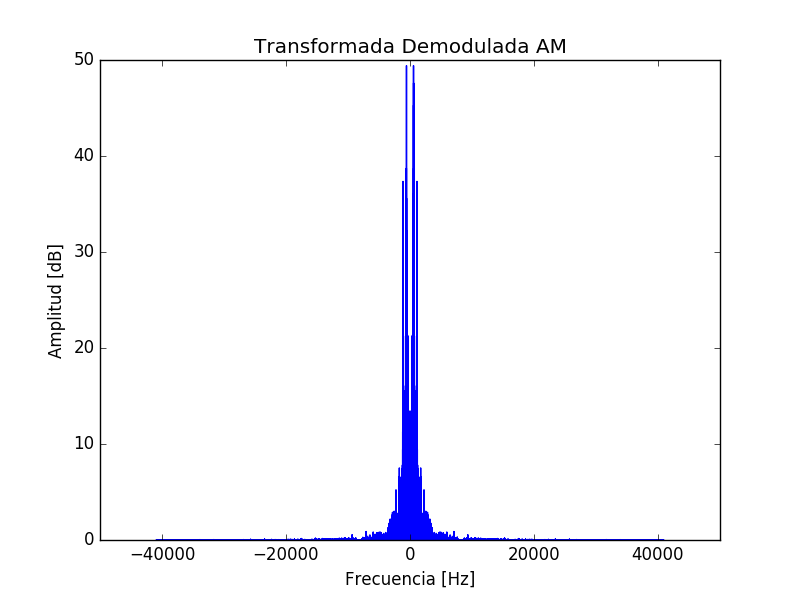
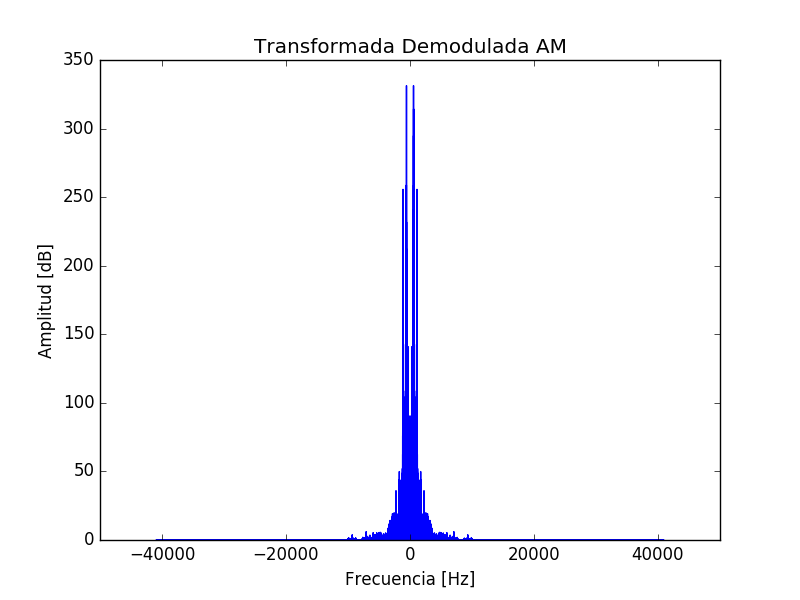
demodulacion ejecutandose bien

diff --git a/lab3.py b/lab3.py
@@ -95,25 +95,7 @@ def graphTransformation(xfourier,yfourier,text,figura):
 	plt.plot(xfourier,abs(yfourier))
 	savefig(figura)
 	plt.show()
-
    
-
-
-def graphModulationFM(t2,señal_interpolada,portadoraX,señal_portadora,señal_modulada,K):
-	plt.subplot(311)
-	plt.title("Señal del Audio")
-	plt.plot(t2[:200],señal_interpolada[:200],linewidth=0.4)
-	plt.subplot(312)
-	plt.title("Señal Portadora")
-	plt.plot(portadoraX[:200],señal_portadora[:200],linewidth=0.4)
-	plt.subplot(313)
-	plt.title("Modulación FM "+str(K)+" %")
-	plt.plot(t2[:200],señal_modulada[:200],linewidth=0.4)
-	plt.show()
-
-    
-    
-    
 #==============================================================================
 # Qué hace la función?: Realiza la modulación de una señal en frecuencia
 # Parámetros de entrada: señal, largo señal, vector del eje x de la señal, frecuencia moduladora
@@ -138,6 +120,25 @@ def modulationFM(y_signal,x_signal,len_signal,time_signal,rate_signal,K):
 	w= fm * x_signal_2
 	y_modulada= A*(np.cos(w*pi+KK*integral*pi))
 	return x_signal_2,y_signal_2,x_portadora,y_portadora,y_modulada, rate_signal_2
+
+#===============================================================================
+# Función: Grafica la modulación FM de la señal, mostrando la señal moduladora,
+# la portadora y la señal modulada.
+# Parámetros de entrada: ejes x e y de cada señal obtenida por la modulación FM.
+# Parámetros de salida: Ninguno, se muestra un gráfico por pantalla.
+#===============================================================================
+def graphModulationFM(x_signal_2,y_signal_2,x_portadora,y_portadora,y_modulada, rate_signal_2,K):
+	plt.subplot(311)
+	plt.title("Señal del Audio")
+	plt.plot(t2[:200],señal_interpolada[:200],linewidth=0.4)
+	plt.subplot(312)
+	plt.title("Señal Portadora")
+	plt.plot(portadoraX[:200],señal_portadora[:200],linewidth=0.4)
+	plt.subplot(313)
+	plt.title("Modulación FM "+str(K)+" %")
+	plt.plot(t2[:200],señal_modulada[:200],linewidth=0.4)
+	plt.show()
+
 #==============================================================================
 # Qué hace la función?: Realiza la modulación de una señal en amplitud
 # Parámetros de entrada: señal, largo señal, vector del eje x de la señal, frecuencia moduladora
@@ -146,29 +147,44 @@ def modulationFM(y_signal,x_signal,len_signal,time_signal,rate_signal,K):
 def modulacionAM(y_signal,x_signal,len_signal,time_signal,K):
 	KK = K/100
 	fc=30000 # Frecuencia en la que se modulará la señal
-	rate_signal_2 = len_signal*10/time_signal
+	rate_signal_2 = len_signal*10/time_signal #Nuevo "tiempo" para el resampling de la señal.
 	x_signal_2 = linspace(0,time_signal,len_signal*10)
 	y_signal_2 = np.interp(x_signal_2, x_signal,y_signal)  
 	
-
+	#Obtención de Wc para luego multiplicarlo por el arreglo tiempo de la portadora.
 	wc=2*np.pi*fc
-	x_portadora =x_signal_2
+	x_portadora = x_signal_2
+	#Función portadora.
 	y_portadora = KK*np.cos(wc * x_portadora)
+	#Obtención de la señal modulada.
 	y_modulada =y_signal_2*y_portadora
 
 	return x_signal_2,y_signal_2,x_portadora,y_portadora,y_modulada, rate_signal_2
 
-def graphModulationAM(x2,señal2,portadoraX,señal_portadora,señal_modulada,K):
+
+#===============================================================================
+# Función: Grafica la modulación AM de la señal, mostrando la señal moduladora,
+# la portadora y la señal modulada.
+# Parámetros de entrada: ejes x e y de cada señal obtenida por la modulación AM.
+# Parámetros de salida: Ninguno, se muestra un gráfico por pantalla.
+#===============================================================================
+def graphModulationAM(x_signal_2,y_signal_2,x_portadora,y_portadora,y_modulada, rate_signal_2,K,figura):
 	plt.subplot(311)
-	plt.title("Señal del Audio",fontsize = 10)
-	plt.plot(x2[:600],señal2[:600],linewidth=0.4)
+	plt.title("Señal del Audio")
+	plt.plot(x_signal_2[:600],y_signal_2[:600],linewidth=0.4)
 	plt.subplot(312)
-	plt.title("Señal Portadora",fontsize = 10)
-	plt.plot(portadoraX[:600],señal_portadora[:600],linewidth=0.4)
+	plt.title("Señal Portadora")
+	plt.plot(x_portadora[:600],y_portadora[:600],linewidth=0.4)
 	plt.subplot(313)
-	plt.title("Modulación AM "+str(K)+" %",fontsize = 10)
-	plt.plot(x2[:600],señal_modulada[:600],linewidth=0.4)
+	plt.title("Modulación AM "+str(K)+" %")
+	plt.plot(x_signal_2[:600],y_modulada[:600],linewidth=0.4)
+	savefig(figura)
 	plt.show()
+
+
+
+
+
 
 def appLowFilter(senal, rate):
     nyquist = rate/2
@@ -183,17 +199,18 @@ def appLowFilter(senal, rate):
     x = arange(0,time,1.0/float(rate))
     return x,filtered
 
-def demoduladorAM(x_modulada,y_modulada,largo_señal_modulada,rate_signal_2):
-    #y_demodulada=y_modulada/y_portadora
-    #x_demodulada = arange(0,len(y_modulada)/rate_signal_2,1.0/rate_signal_2)
-    #x_demodulada, y_demodulada = appLowFilter(y_demodulada,rate_signal_2)
-    #return x_demodulada, y_demodulada
-    fc=30000 #se requiere una frecuencia portadora minimo 4 veces mayor que la frecuencia de muestreo
-    wc=2*pi*fc
-    x_demodulada=np.linspace(0,len(x_modulada)/(rate_signal_2), num=len(x_modulada))
-    y_portadora = np.cos(wc*x_demodulada)
-    y_desmodulada=y_modulada/y_portadora 
-    return x_demodulada,y_desmodulada
+
+
+#=====================================================================================
+#Función: Función encargada de la demodulación AM de la señal.
+#Parámetros de entrada: señal modulada, señal portadora, con la nueva tasa de muestreo
+#Parámetros de salida: Eje x e y de la señal demodulada.
+#=====================================================================================
+def demoduladorAM(y_modulada,y_portadora,rate_signal_2):
+    y_demodulada=y_modulada/y_portadora
+    x_demodulada = linspace(0,len(y_modulada)/rate_signal_2,len(y_modulada))
+    x_demodulada, y_demodulada = appLowFilter(y_demodulada,rate_signal_2)
+    return x_demodulada, y_demodulada
 
 #Obtencion de datos del audio
 y_signal, x_signal, rate_signal, time_signal, len_signal = getData("handel.wav")
@@ -201,13 +218,15 @@ y_signal, x_signal, rate_signal, time_signal, len_signal = getData("handel.wav")
 #Modulacion AM
 
 x_signal_2,y_signal_2,x_portadora,y_portadora,y_modulada, rate_signal_2 = modulacionAM(y_signal,x_signal,len_signal,time_signal,15)
-#graphModulationAM(x_signal_2,y_signal_2,x_portadora,y_portadora,y_modulada,15)
+graphModulationAM(x_signal_2,y_signal_2,x_portadora,y_portadora,y_modulada, rate_signal_2,15,"Modulacion AM 15")
 
+
+#Transformadas de Fourier Señal Original y Modulación AM
 x_fourier, y_fourier = fourierTransformation(y_signal_2, len(y_signal_2),rate_signal_2)
-graphTransformation(x_fourier,y_fourier,"Transformada Original","figura")
+graphTransformation(x_fourier,y_fourier,"Transformada de Fourier Original","Transformada de fourier Original")
 
 x_fourier, y_fourier = fourierTransformation(y_modulada, len(y_modulada),rate_signal_2)
-graphTransformation(x_fourier,y_fourier,"Transformada Modulación AM","figura")
+graphTransformation(x_fourier,y_fourier,"Transformada de Fourier Modulación AM","Transformada de Fourier Modulación AM")
 
 """"
 x_signal_2,y_signal_2,x_portadora,y_portadora,y_modulada, rate_signal_2 = modulationFM(y_signal,x_signal,len_signal,time_signal,rate_signal,100)
@@ -220,13 +239,15 @@ x_fourier, y_fourier = fourierTransformation(y_modulada, len(y_modulada),rate_si
 graphTransformation(x_fourier,y_fourier,"real","figura")
 
 """
-x_demodulada,y_demodulada = demoduladorAM(x_signal_2,y_modulada,len(y_modulada),rate_signal_2)
+
+#DEMODULACIÓN AM, TRANSFORMADAS DE FOURIER ORIGINAL Y DEMODULADA
+x_demodulada,y_demodulada = demoduladorAM(y_modulada,y_portadora,rate_signal_2)
 print(len(x_demodulada))
 print(len(y_demodulada))
 x_fourier, y_fourier = fourierTransformation(y_demodulada, len(y_demodulada),rate_signal_2)
-graphTransformation(x_fourier,y_fourier,"Transformada Demodulada AM","figura")
-graphTime(x_demodulada,y_demodulada,"Audio Demodulacion","hola")
-graphTime(x_signal,y_signal,"Audio Original","hola")
+graphTransformation(x_fourier,y_fourier,"Transformada Demodulada AM","Transformada Demodulada AM")
+graphTime(x_demodulada,y_demodulada,"Audio Demodulacion AM","Audio Demodulacion AM")
+graphTime(x_signal,y_signal,"Audio Original","Audio Original")
 
 
 
